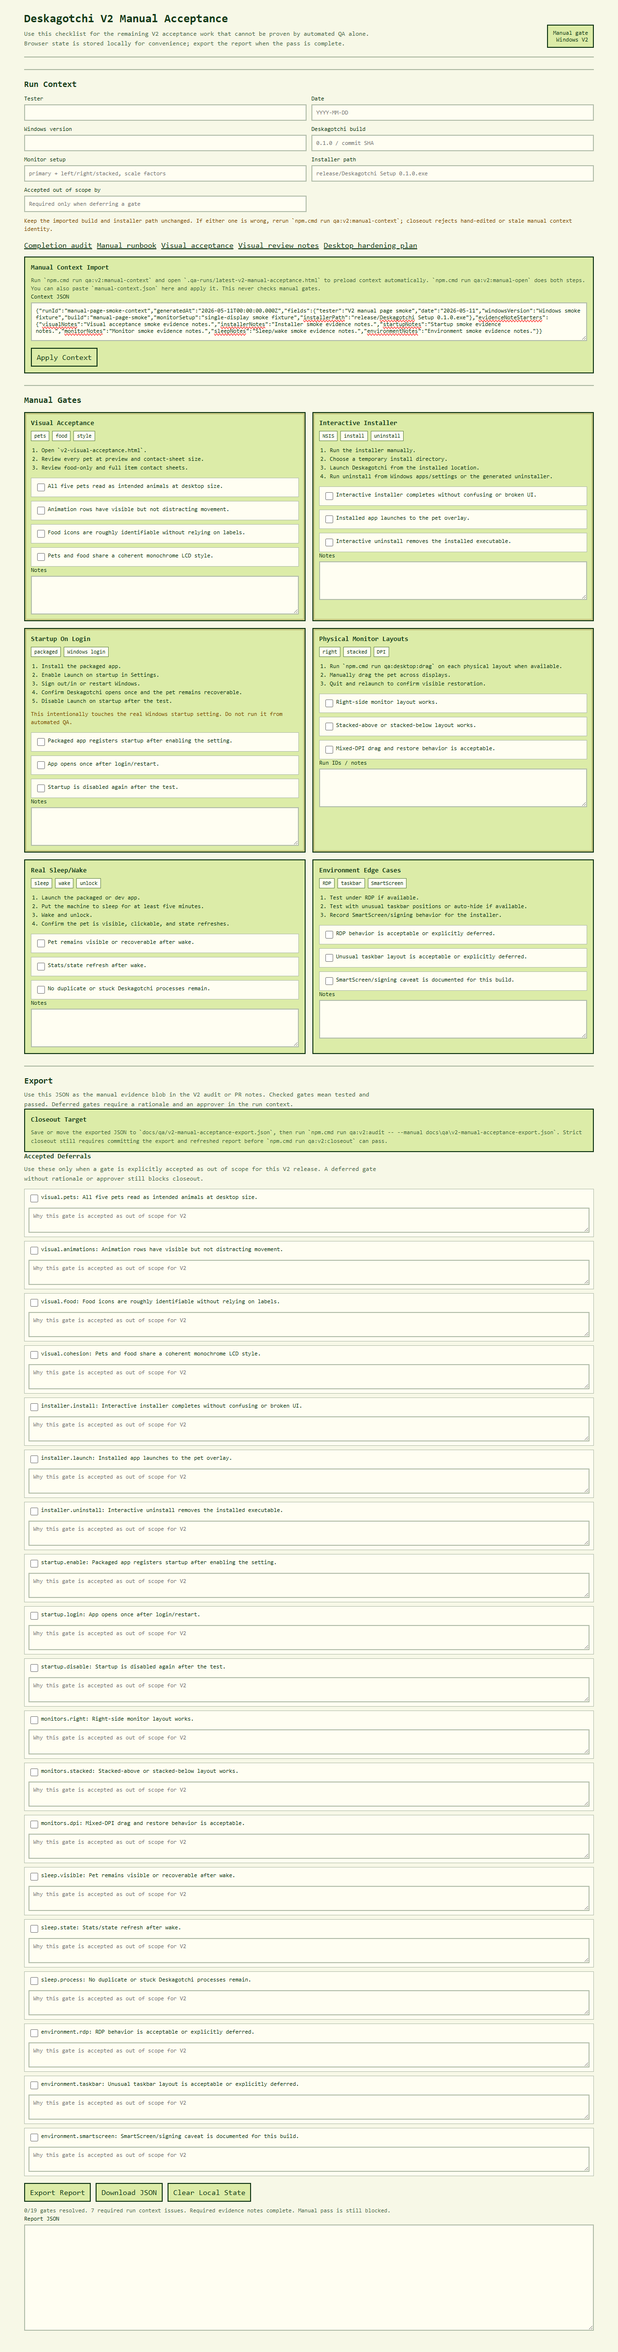
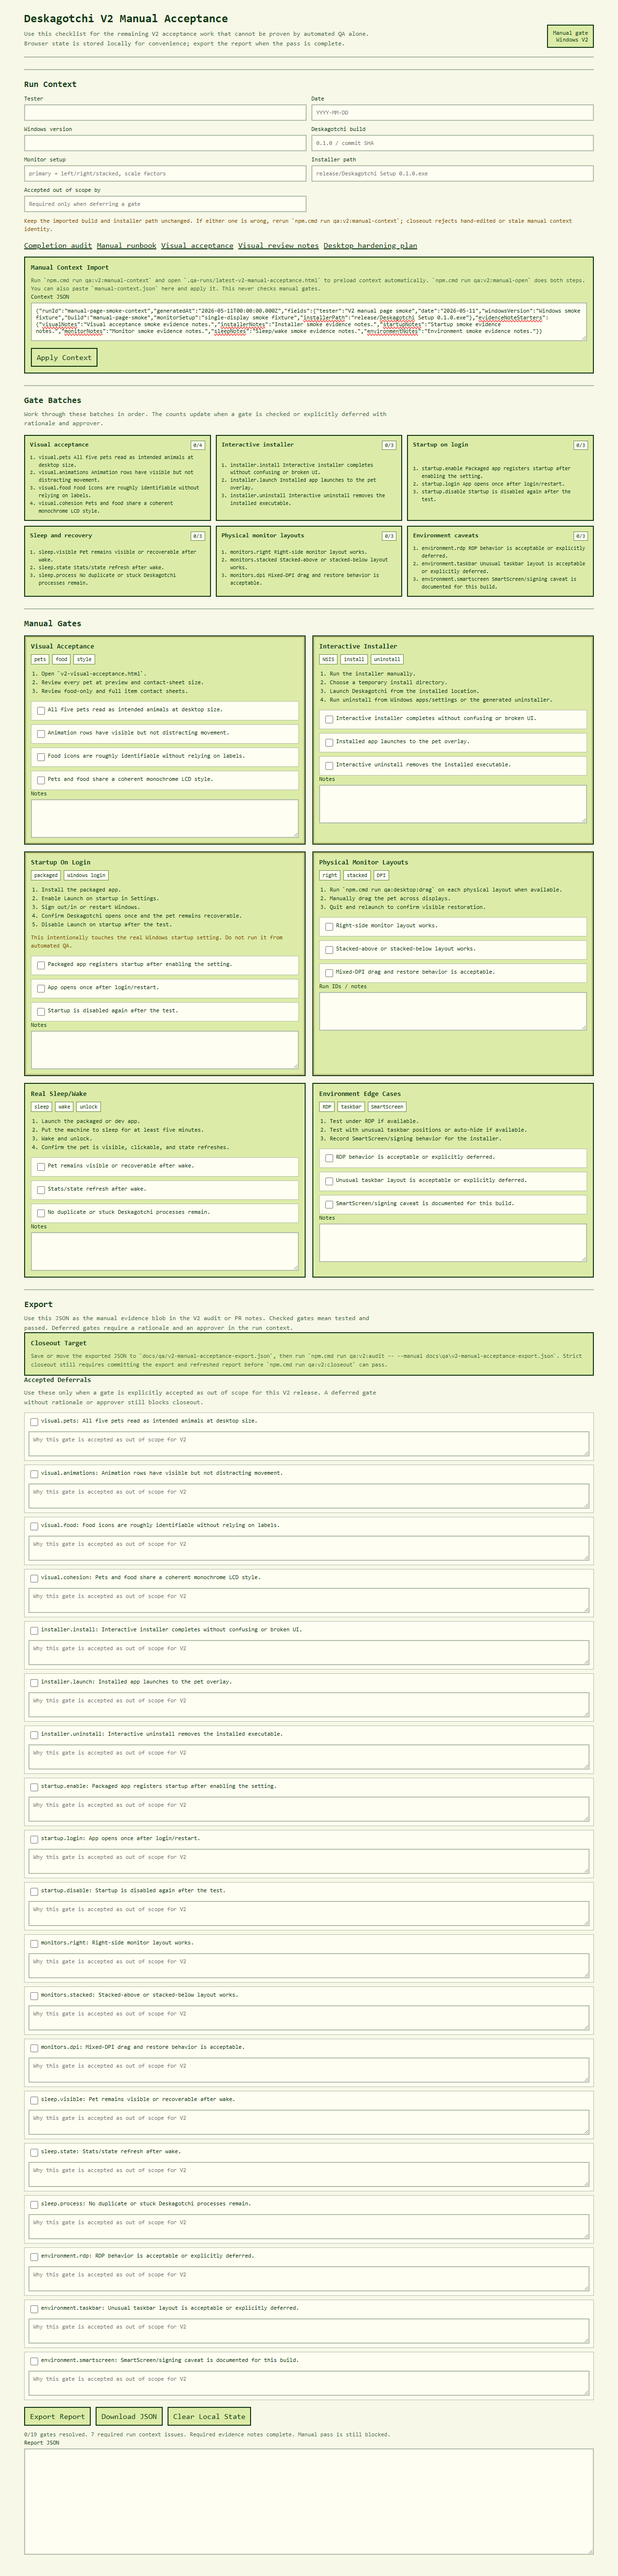
test(qa): show v2 manual batch progress

diff --git a/docs/qa/v2-manual-acceptance.html b/docs/qa/v2-manual-acceptance.html
@@ -154,6 +154,53 @@
         margin-top: 12px;
       }
 
+      .batch-grid {
+        display: grid;
+        grid-template-columns: repeat(3, minmax(0, 1fr));
+        gap: 10px;
+        margin-top: 14px;
+      }
+
+      .batch-card {
+        display: grid;
+        gap: 8px;
+        border: 2px solid var(--ink);
+        background: var(--lcd);
+        padding: 10px;
+      }
+
+      .batch-card[data-status="complete"] {
+        background: var(--white);
+      }
+
+      .batch-card header {
+        display: grid;
+        grid-template-columns: 1fr auto;
+        gap: 8px;
+        align-items: start;
+        border: 0;
+        padding: 0;
+      }
+
+      .batch-card h3 {
+        font-size: 13px;
+      }
+
+      .batch-count {
+        border: 1px solid var(--mid);
+        background: var(--white);
+        padding: 2px 5px;
+        font-size: 11px;
+        white-space: nowrap;
+      }
+
+      .batch-list {
+        margin: 0;
+        padding-left: 18px;
+        font-size: 11px;
+        line-height: 1.45;
+      }
+
       label.check {
         display: grid;
         grid-template-columns: 18px 1fr;
@@ -250,7 +297,8 @@
       @media (max-width: 880px) {
         header,
         .grid,
-        .field-grid {
+        .field-grid,
+        .batch-grid {
           grid-template-columns: 1fr;
         }
 
@@ -314,6 +362,15 @@
             <button type="button" data-action="apply-context">Apply Context</button>
           </div>
         </div>
+      </section>
+
+      <section class="section">
+        <h2>Gate Batches</h2>
+        <p class="summary">
+          Work through these batches in order. The counts update when a gate is
+          checked or explicitly deferred with rationale and approver.
+        </p>
+        <div class="batch-grid" id="batch-progress"></div>
       </section>
 
       <section class="section">
@@ -454,6 +511,7 @@
       let currentManualContextSignature = "";
       const fields = Array.from(document.querySelectorAll("[data-field]"));
       const checks = Array.from(document.querySelectorAll("[data-check]"));
+      const batchProgress = document.querySelector("#batch-progress");
       const deferralGrid = document.querySelector("#deferral-grid");
       const exportOutput = document.querySelector("#export-output");
       const exportStatus = document.querySelector("#export-status");
@@ -495,6 +553,57 @@
           section: "environment",
           label: "Environment notes",
           field: "environmentNotes"
+        }
+      ];
+      const manualBatches = [
+        {
+          name: "Visual acceptance",
+          gateIds: [
+            "visual.pets",
+            "visual.animations",
+            "visual.food",
+            "visual.cohesion"
+          ]
+        },
+        {
+          name: "Interactive installer",
+          gateIds: [
+            "installer.install",
+            "installer.launch",
+            "installer.uninstall"
+          ]
+        },
+        {
+          name: "Startup on login",
+          gateIds: [
+            "startup.enable",
+            "startup.login",
+            "startup.disable"
+          ]
+        },
+        {
+          name: "Sleep and recovery",
+          gateIds: [
+            "sleep.visible",
+            "sleep.state",
+            "sleep.process"
+          ]
+        },
+        {
+          name: "Physical monitor layouts",
+          gateIds: [
+            "monitors.right",
+            "monitors.stacked",
+            "monitors.dpi"
+          ]
+        },
+        {
+          name: "Environment caveats",
+          gateIds: [
+            "environment.rdp",
+            "environment.taskbar",
+            "environment.smartscreen"
+          ]
         }
       ];
       const fieldLabels = Object.fromEntries(
@@ -591,6 +700,7 @@
           expectedChecks: checks.map((check) => check.dataset.check),
           requiredFields: requiredManualFields,
           requiredEvidenceFields: sectionEvidenceFields,
+          manualExecutionBatches: buildManualBatchReport(state, acceptedOutOfScopeBy),
           fieldFailures,
           evidenceFailures,
           conflictFailures,
@@ -644,7 +754,62 @@
           ? "Manual pass ready to export."
           : "Manual pass is still blocked.";
         const prefix = `${passed}/${checks.length} gates resolved. ${fieldStatus} ${evidenceStatus}${conflictStatus} ${passStatus}`;
+        renderBatchProgress(state, acceptedOutOfScopeBy);
         exportStatus.textContent = message ? `${prefix} ${message}` : prefix;
+      }
+
+      function renderBatchProgress(state, acceptedOutOfScopeBy) {
+        batchProgress.innerHTML = buildManualBatchReport(state, acceptedOutOfScopeBy)
+          .map((batch) => {
+            const openItems = batch.blockingGateIds.length === 0
+              ? "<li>Ready for export.</li>"
+              : batch.blockingGateIds
+                  .map((gateId) => `<li><code>${escapeHtml(gateId)}</code> ${escapeHtml(gateLabel(gateId))}</li>`)
+                  .join("");
+            return `
+              <article class="batch-card" data-batch="${escapeHtml(batch.name)}" data-status="${batch.status}">
+                <header>
+                  <h3>${escapeHtml(batch.name)}</h3>
+                  <span class="batch-count">${batch.resolvedCount}/${batch.totalCount}</span>
+                </header>
+                <ol class="batch-list">${openItems}</ol>
+              </article>
+            `;
+          })
+          .join("");
+      }
+
+      function buildManualBatchReport(state, acceptedOutOfScopeBy) {
+        return manualBatches.map((batch) => {
+          const blockingGateIds = batch.gateIds.filter(
+            (key) => !isGateResolved(key, state, acceptedOutOfScopeBy)
+          );
+          return {
+            name: batch.name,
+            gateIds: batch.gateIds,
+            resolvedCount: batch.gateIds.length - blockingGateIds.length,
+            totalCount: batch.gateIds.length,
+            status: blockingGateIds.length === 0 ? "complete" : "open",
+            blockingGateIds
+          };
+        });
+      }
+
+      function gateLabel(key) {
+        return document
+          .querySelector(`[data-check="${key}"]`)
+          ?.closest(".check")
+          ?.querySelector("span")
+          ?.textContent || key;
+      }
+
+      function escapeHtml(value) {
+        return String(value)
+          .replaceAll("&", "&amp;")
+          .replaceAll("<", "&lt;")
+          .replaceAll(">", "&gt;")
+          .replaceAll('"', "&quot;")
+          .replaceAll("'", "&#039;");
       }
 
       function buildFieldFailures(state, hasDeferrals) {
